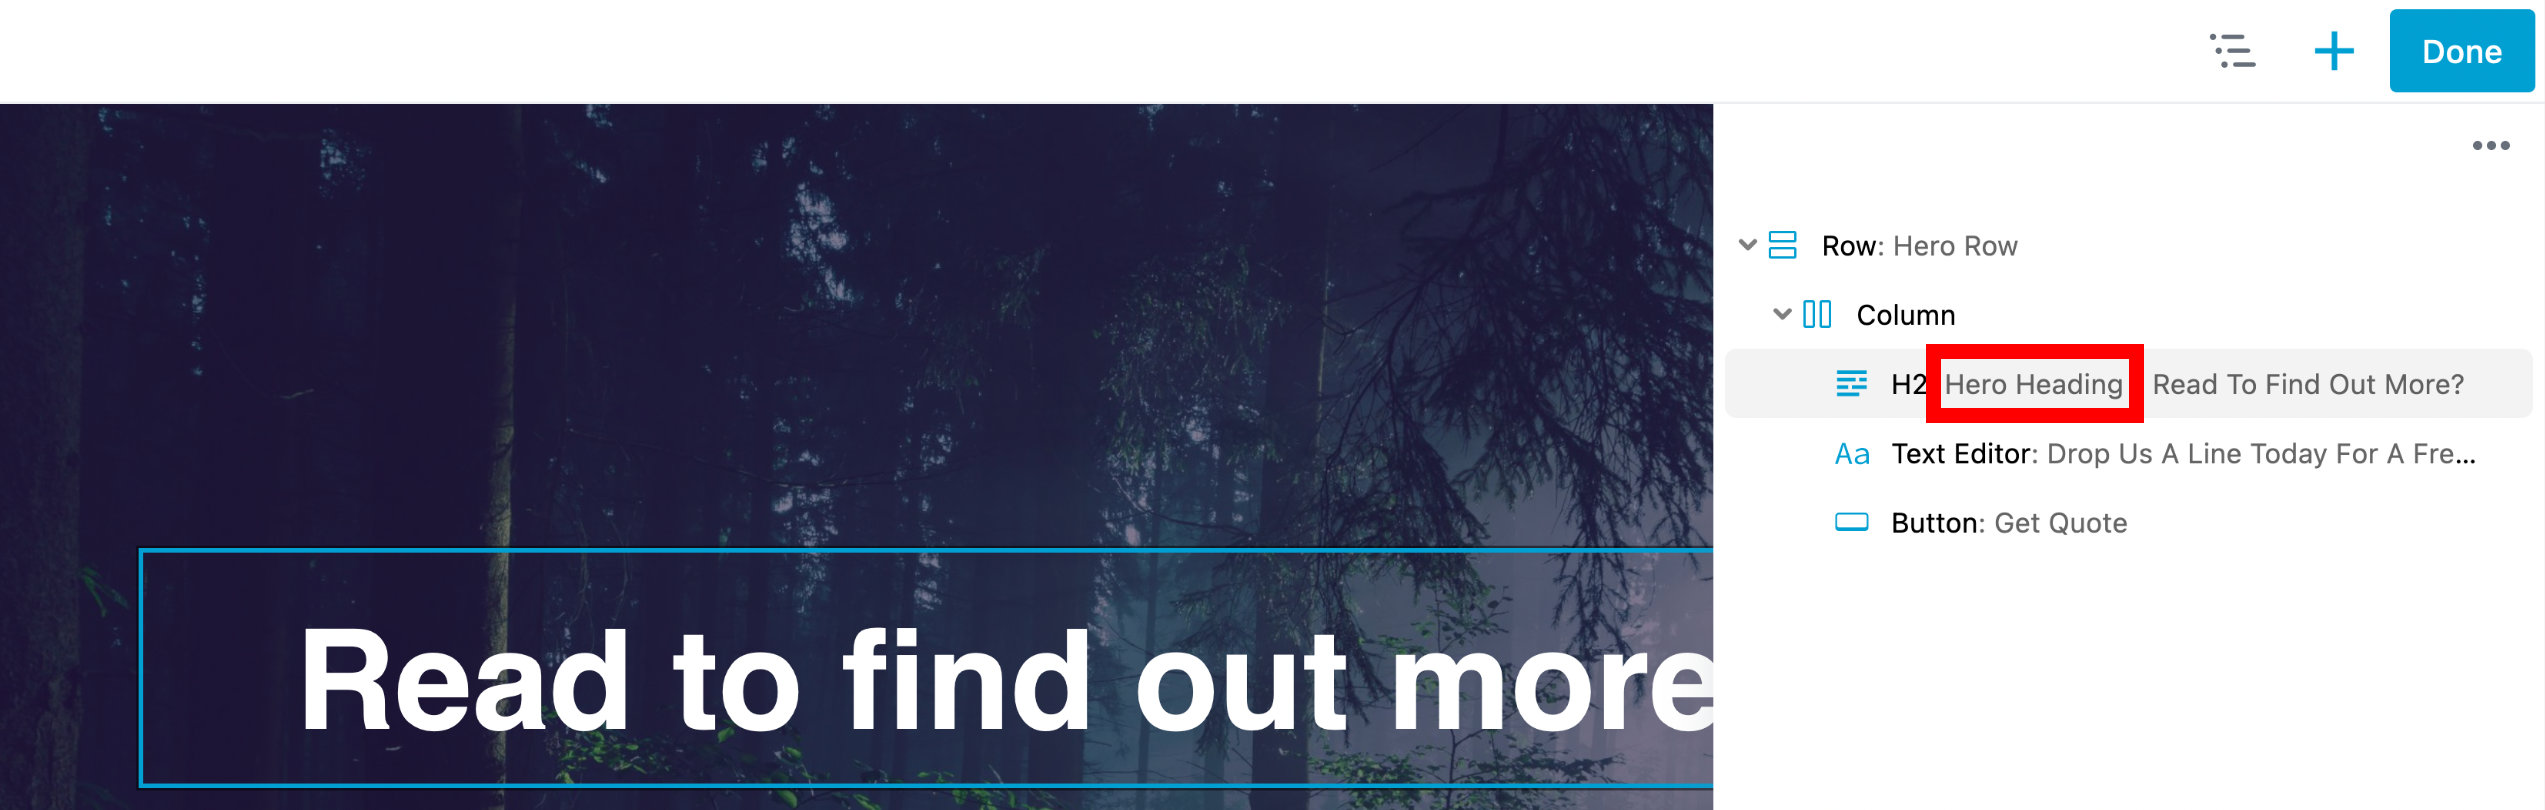
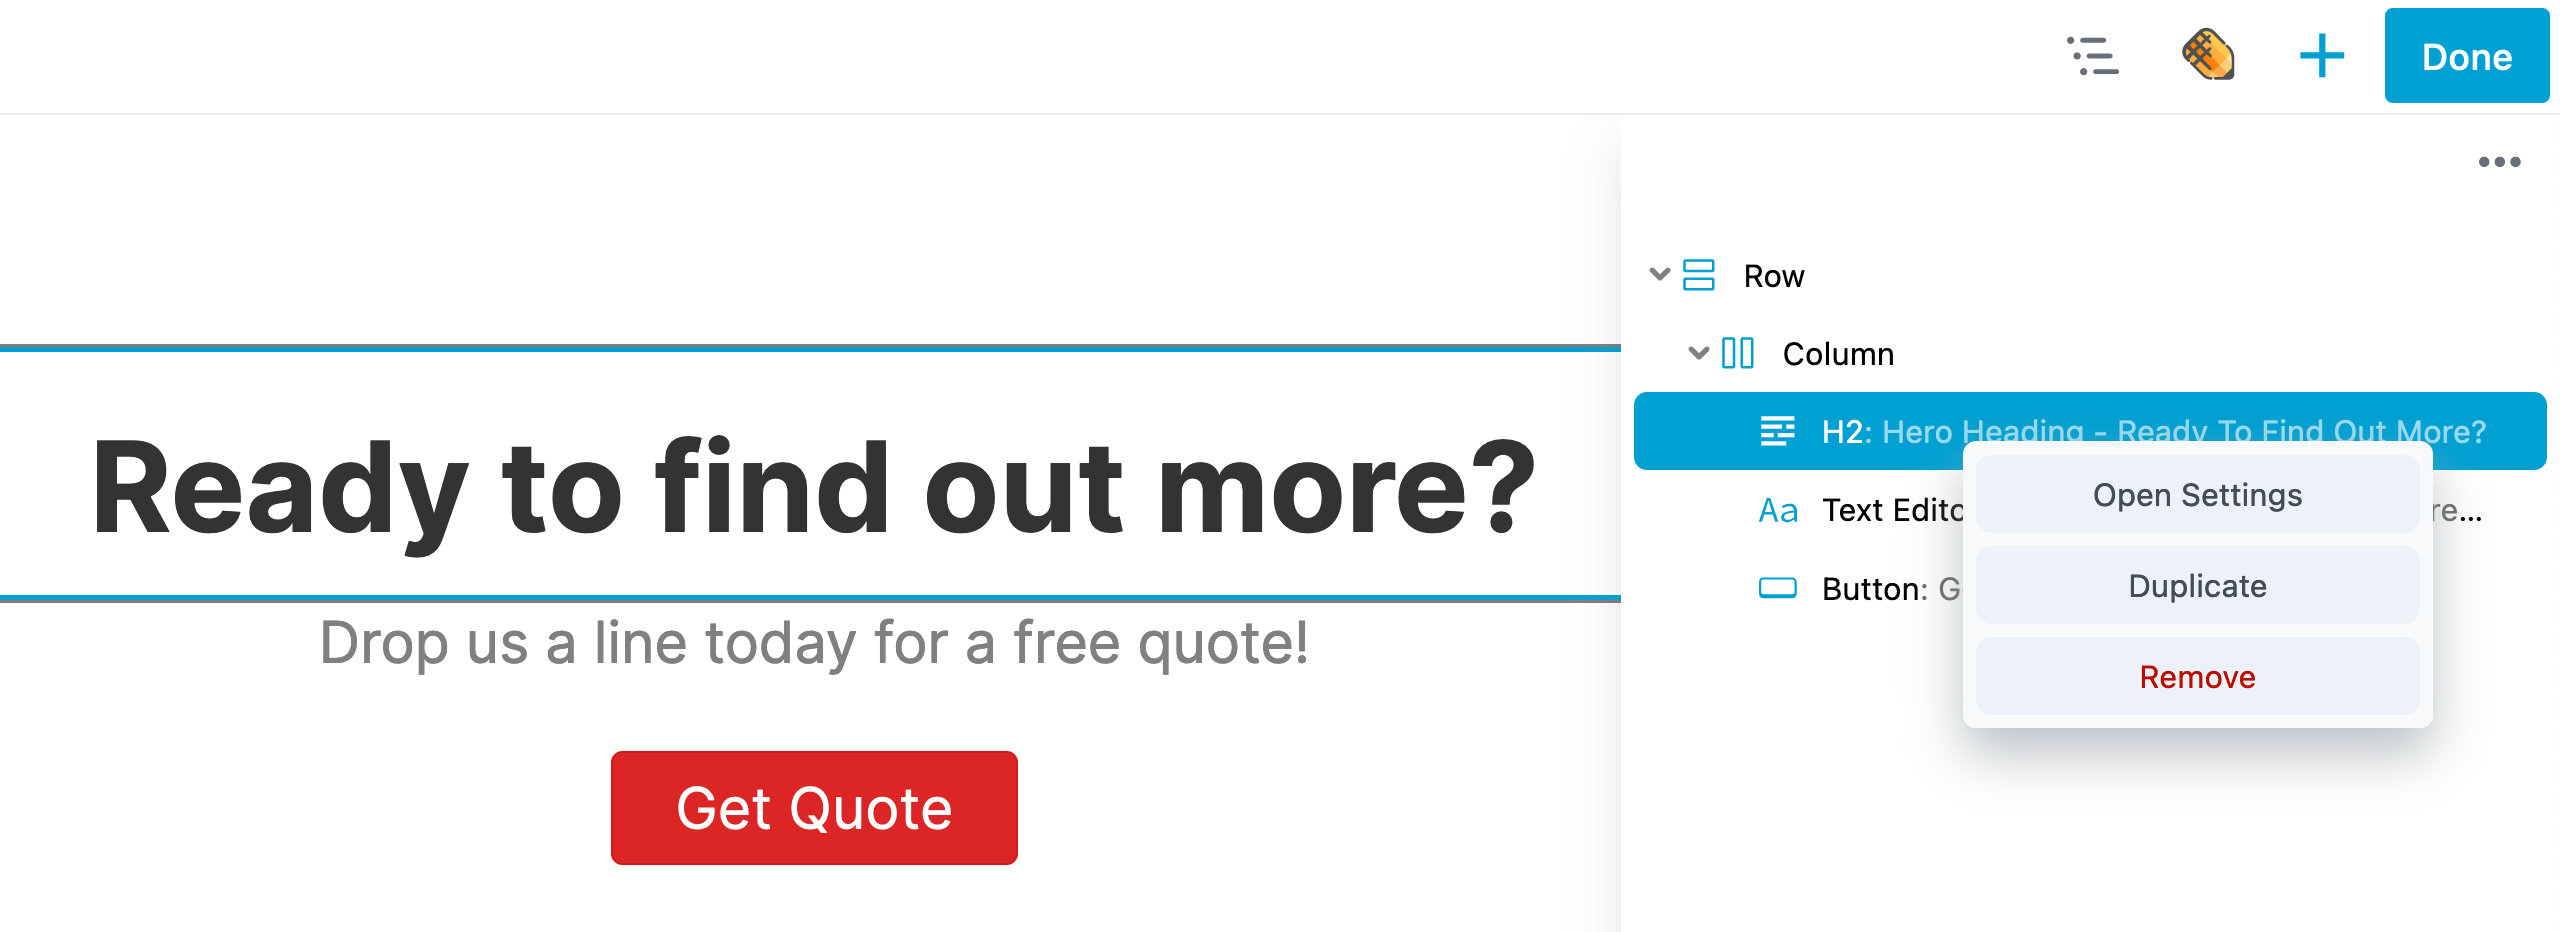
update outline panel doc with new images & text

diff --git a/docs/beaver-builder/getting-started/bb-editor-basics/outline-panel.md b/docs/beaver-builder/getting-started/bb-editor-basics/outline-panel.md
@@ -18,7 +18,7 @@ Click the Outline icon in the **Top Bar** to open the Outline panel, which lets 
 ![Outline panel icon in the Beaver Builder editor](/img/beaver-builder/user-interface--outline-panel--1.jpg)
 
 :::tip **Tip**
-The Outline panel doesn't have a drag handle, but you can remove its overlap on the layout with this trick. First display the Content panel and the [use the drag handle to pin it to the right of the layout](/beaver-builder/getting-started/bb-editor-basics/user-interface.md#8-drag-handle), then click the Outline panel icon. It then overlays the Content panel.
+The Outline panel doesn't have a drag handle, but you can remove its overlap on the layout with this trick. First display the Content panel and the [use the drag handle to pin it to the right of the layout](content-panel.md#drag-handle), then click the Outline panel icon. It then overlays the Content panel.
 :::
 
 ## Expand/Collapse
@@ -38,7 +38,7 @@ Using the Outline Panel's keyboard shortcuts, you can open and close the Outline
 
 ## Navigate
 
-Click once in any entry in the Outline panel to scroll to that element in the layout. Click twice to open that element's settings.
+Click once in any entry in the Outline panel to scroll to that node (row, column, or module) in the layout. Click twice to open that node's settings.
 
 ## Move Content
 
@@ -46,13 +46,25 @@ You can quickly move content such as rows, columns (except for child columns), a
 
 ## Right-Click
 
-Right-click any entry to see a list of available options.
+Right-click any row, column, or module to see a list of available options. A blue outline will also appear around it, indicating its selection within the builder.
 
 * Rows and Columns have **Open settings** and **Remove** options.
 * Modules have **Open settings**, **Duplicate**, and **Remove** options.
 
+![Right-Click Outline Panel](/img/beaver-builder/user-interface--outline-panel--2.jpg)
+
 ## Labels
 
-You can add a label via the [Advanced tab](/beaver-builder/layouts/advanced-tab/html-element.md) of a row, column, or module that helps to identify its purpose in Outline Panel tree view. In the following screenshot, the Outline panel shows the label **Hero Heading** that was added to a Heading module.
+To help identify the purpose of a row, column, or module in the Outline Panel tree view, you can add a [label through the Advanced tab](advanced-tab/html-element.md#label). The screenshot below shows an example where a label "Hero Heading" was added to a Heading module and is displayed in the Outline Panel.
 
-![Labels displayed in Outline panel](/img/beaver-builder/user-interface--outline-panel--2.jpg)
+![Labels displayed in Outline panel](/img/beaver-builder/user-interface--outline-panel--3.jpg)
+
+## Icon Indicators
+
+In the Outline Panel, icons will appear when the display visibility settings for a row, column, or module have been modified or when custom CSS or JavaScript has been added to them using the CSS or JavaScript sections in the [Advanced tab](/beaver-builder/layouts/advanced-tab/html-element.md).
+
+* If you an Eye <i className="fa-solid fa-eye"></i> icon is present, it means that the display visibility settings for that row, column, or module have been changed from the default state, which is "Always."
+
+* The code <i className="fa-solid fa-code"></i>icon indicates that custom CSS or JavaScript has been added to the row, column, or module through the CSS or JavaScript sections found in the [Advanced tab](/beaver-builder/layouts/advanced-tab/html-element.md).
+
+![Right-Click Outline Panel](/img/beaver-builder/user-interface--outline-panel--4.jpg)
